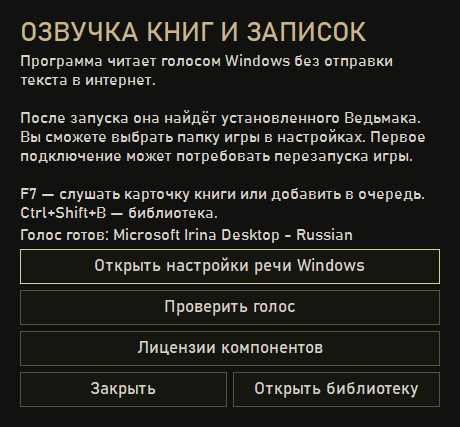
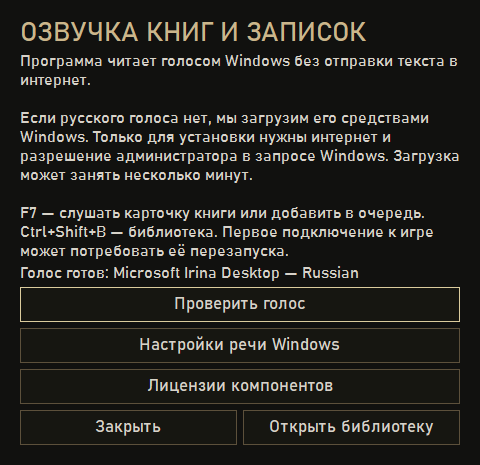
Ведьмак 3: название проекта и автоматическая установка русского голоса (0.1.1)

Changed region(s): [[0.0304, 0.4262, 0.9739, 0.9742], [0.0304, 0.2436, 0.9739, 0.3958], [0.0304, 0.0304, 0.9739, 0.2131]]

diff --git a/README.md b/README.md
@@ -1,12 +1,14 @@
 <div align="center">
 
-# Озвучка записок и книг — Ведьмак 3
+# Ведьмак 3 — озвучка текста, книг и записок
 
-**Слушайте найденные письма, книги и дневники, продолжая играть.**
+**Озвучка текста в The Witcher 3: слушайте найденные письма, книги и дневники, продолжая играть.**
+
+Чтение вслух на русском для «Ведьмака 3» — с очередью, мини-плеером и субтитрами.
 
 Офлайн-озвучка на русском · Windows 10/11 x64 · очередь записей · отдельные субтитры
 
-[**Скачать установщик Windows (v0.1.0)**](https://github.com/Protozhe/witcher3-book-voice/releases/download/v0.1.0/WitcherBookVoice-0.1.0-Windows-x64-Setup.exe) · [Все файлы релиза и SHA256](https://github.com/Protozhe/witcher3-book-voice/releases/tag/v0.1.0)
+[**Скачать установщик Windows (v0.1.1)**](https://github.com/Protozhe/witcher3-book-voice/releases/download/v0.1.1/WitcherBookVoice-0.1.1-Windows-x64-Setup.exe) · [Все файлы релиза и SHA256](https://github.com/Protozhe/witcher3-book-voice/releases/tag/v0.1.1)
 
 [Возможности](#возможности) · [Совместимость](docs/COMPATIBILITY.md) · [Установка](docs/INSTALL.md) · [Сообщить об ошибке](https://github.com/Protozhe/witcher3-book-voice/issues/new/choose)
 
@@ -14,7 +16,7 @@
 
 ![Библиотека найденных книг](docs/images/library.png)
 
-> **Первый предварительный релиз — v0.1.0.** Установщик включает приложение, Python и библиотеки. Отдельно устанавливать Python не нужно. Нужен русский голос Windows: первый запуск проверит его и поможет открыть настройки речи. Исходники приложения остаются закрытыми. Установщик пока не подписан сертификатом; сверяйте SHA256 и скачивайте файлы только из Releases этого репозитория.
+> **Предварительный релиз — v0.1.1.** Установщик включает приложение, Python и библиотеки. Отдельно устанавливать Python не нужно. Русский голос Windows проверяется автоматически. Если его нет, мастер начнёт загрузку через Windows Update; нужны интернет и подтверждение запроса администратора. Исходники приложения остаются закрытыми. Установщик пока не подписан сертификатом; сверяйте SHA256 и скачивайте файлы только из Releases этого репозитория.
 
 ## Возможности
 
@@ -65,7 +67,7 @@
 
 ## Офлайн и нагрузка
 
-Публичная версия использует установленный русский голос Windows (Microsoft SAPI). Модель Ирины/Piper и ресурсы игры в установщик не включены. Голос работает локально и не требует GPU. Если русского голосового пакета нет, его нужно один раз загрузить через настройки Windows; затем чтение работает офлайн. Готовые аудиофрагменты используются повторно.
+Публичная версия использует русский голос Windows (Microsoft SAPI или OneCore). Модель Ирины/Piper и ресурсы игры в установщик не включены. Голос работает локально и не требует GPU. Если русского голосового пакета нет, мастер один раз установит его через Windows Update. Подтвердите запрос администратора; после установки чтение работает офлайн. При отмене или ошибке загрузки можно повторить установку в мастере. Политики Windows Update могут блокировать загрузку; иногда требуется перезагрузка. Готовые аудиофрагменты используются повторно.
 
 Объём полной подготовки зависит от скорости и каталога; ориентир — около 2 ГБ. Подготовку пользователь запускает сам. Точность ударений и синхронизация субтитров пока не идеальны: субтитры рассчитываются приблизительно внутри аудиофрагмента.
 
@@ -78,7 +80,7 @@
 - [x] Очередь, мини-плеер, перемотка и субтитры.
 - [x] Подготовка аудио и сохранение истории локально.
 - [x] Автоматическое обнаружение установленной игры на Windows.
-- [x] Первый Windows-установщик с голосом Windows, лицензиями и исходниками сторонних LGPL-библиотек.
+- [x] Windows-установщик с автоматической установкой русского голоса Windows, лицензиями и исходниками сторонних LGPL-библиотек.
 - [ ] Отдельный Linux-бэкенд горячих клавиш, процессов и аудио.
 - [ ] Проверки на Steam Deck, X11, Wayland и нескольких Proton-префиксах.
 - [ ] Улучшение произношения и точности субтитров.

diff --git a/docs/INSTALL.md b/docs/INSTALL.md
@@ -1,8 +1,8 @@
 # Установка и первый запуск
 
-Скачайте [Windows x64 Setup](https://github.com/Protozhe/witcher3-book-voice/releases/download/v0.1.0/WitcherBookVoice-0.1.0-Windows-x64-Setup.exe), запустите и завершите установку. Установка выполняется для текущего пользователя. Python устанавливать отдельно не нужно. Windows 10 версии 1809 или новее / Windows 11 x64; для Windows N нужен Media Feature Pack. Сборка не подписана: не отключайте защиту Windows; проверьте источник и контрольную сумму, если появилось предупреждение.
+Скачайте [Windows x64 Setup](https://github.com/Protozhe/witcher3-book-voice/releases/download/v0.1.1/WitcherBookVoice-0.1.1-Windows-x64-Setup.exe), запустите и завершите установку. Установка выполняется для текущего пользователя. Python устанавливать отдельно не нужно. Windows 10 версии 1809 или новее / Windows 11 x64; для Windows N нужен Media Feature Pack. Сборка не подписана: не отключайте защиту Windows; проверьте источник и контрольную сумму, если появилось предупреждение.
 
-1. Откройте ярлык «Озвучка книг — Ведьмак 3». Мастер проверит русский голос. Если он отсутствует, откройте настройки речи по кнопке, установите русский голосовой пакет, перезапустите программу и повторите проверку. Для загрузки пакета Windows может потребоваться интернет и разрешение администратора.
+1. Установщик автоматически проверит русский голос. Если он отсутствует, мастер начнёт установку через Windows Update: подтвердите запрос администратора и дождитесь завершения. Если голос уже установлен, загрузки и запроса прав не будет. После отмены или сбоя можно повторить установку в мастере первого запуска. Windows может потребовать перезагрузку. При тихой установке проверка выполняется при первом обычном запуске приложения.
 2. Запустите W3Reader.exe. В настройках выберите папку игры, если она не найдена автоматически.
 3. Дождитесь построения локального каталога. При первом подключении может потребоваться перезапуск игры для загрузки мода.
 4. Загрузите сохранение. Если библиотека пуста, выполните быстрое сохранение F5 и обновите список.

diff --git a/THIRD_PARTY_NOTICES.md b/THIRD_PARTY_NOTICES.md
@@ -1,10 +1,10 @@
-# Сторонние компоненты публичной версии 0.1.0
+# Сторонние компоненты публичной версии 0.1.1
 
-Приложение имеет закрытый исходный код. Публичный установщик не содержит игровых ресурсов, моделей Piper/Ирины, sherpa-onnx или eSpeak NG. Речь создаётся установленным голосом Windows через Microsoft SAPI. Лицензию Windows предоставляет Microsoft.
+Приложение имеет закрытый исходный код. Публичный установщик не содержит игровых ресурсов, моделей Piper/Ирины, sherpa-onnx или eSpeak NG. Речь создаётся установленным голосом Windows через Microsoft SAPI / OneCore. Голос при необходимости устанавливается через Windows Update. Лицензию Windows предоставляет Microsoft.
 
 В установщике есть Python (PSF), Qt/PySide6/Shiboken 6.11.2 (применимые модули LGPL-3.0), FFmpeg 7.1.5 (LGPL-2.1-or-later, сборка без enable-gpl/enable-nonfree), Pillow и его кодеки, LZ4, pycaw, comtypes, psutil, OpenSSL, Microsoft Runtime. Полные тексты лицензий, уведомления и версии входят в папку licenses установленной программы. Открыть сведения можно в мастере первого запуска или настройках приложения.
 
-В [релизе](https://github.com/Protozhe/witcher3-book-voice/releases/tag/v0.1.0) рядом с установщиком опубликован WitcherBookVoice-0.1.0-ThirdPartySources.zip: соответствующие неизменённые исходники QtBase, QtMultimedia, PySide/Shiboken, FFmpeg и zlib, контрольные суммы и инструкции. Это исходники сторонних компонентов, а не закрытого приложения.
+В [релизе](https://github.com/Protozhe/witcher3-book-voice/releases/tag/v0.1.1) рядом с установщиком опубликован WitcherBookVoice-0.1.1-ThirdPartySources.zip: соответствующие неизменённые исходники QtBase, QtMultimedia, PySide/Shiboken, FFmpeg и zlib, контрольные суммы и инструкции. Это исходники сторонних компонентов, а не закрытого приложения.
 
 Динамические DLL/PYD LGPL-библиотек можно заменять совместимыми модифицированными версиями; обратное проектирование для отладки таких изменений разрешено. Условия собственного приложения не ограничивают права по LGPL.
 

diff --git a/docs/COMPATIBILITY.md b/docs/COMPATIBILITY.md
@@ -1,12 +1,12 @@
 # Совместимость и критерии выпуска
 
-Текущая версия 0.1.0 предназначена для Windows 10 (1809+) / Windows 11 x64. Установка, обновление, удаление и чтение проверены на текущем Windows-компьютере; отдельная чистая виртуальная машина и все варианты Windows ещё не проверены.
+Текущая версия 0.1.1 предназначена для Windows 10 (1809+) / Windows 11 x64. Установка, обновление, удаление и чтение проверены на текущем Windows-компьютере; отдельная чистая виртуальная машина и все варианты Windows ещё не проверены.
 
 Код привязан к Windows: глобальные клавиши, определение активной игры, автозапуск и приглушение аудиосессии требуют отдельных реализаций на Linux.
 
 ## Что проверено
 
-- На локальном Windows-компьютере: 127 автоматических тестов и самопроверка собранной программы с реальным аудиоплеером.
+- На локальном Windows-компьютере: 137 автоматических тестов и самопроверка собранной программы с реальным аудиоплеером.
 - Интерфейс при ширине 300, 340 и 480 пикселей и масштабе Windows 150%.
 - Формирование мода по разным исходным скриптам Classic/4.x. Это не заменяет компиляцию и прохождение игры на каждой версии.
 
@@ -21,3 +21,5 @@
 - Запуск на слабом CPU, Steam Deck и нескольких поддерживаемых дистрибутивах.
 
 Пока эти проверки не пройдены, Linux не обозначается как поддерживаемая платформа. Универсальная совместимость со всеми ОС, модами и версиями игры не обещается.
+
+Автоматическая установка голоса: проверены сценарии уже установленного голоса, успешной установки, отмены UAC, сбоя Windows Update и запроса перезагрузки (отсутствующий голос и ответы установки моделировались). Реальный синтез SAPI и OneCore проверен. На чистой Windows без русского языка полный цикл загрузки ещё не проверен.

diff --git a/docs/TROUBLESHOOTING.md b/docs/TROUBLESHOOTING.md
@@ -27,3 +27,7 @@
 ## Звук и произношение
 
 На паузе прежняя громкость игры должна возвращаться. Сообщите, если она не вернулась. Голос и приблизительные субтитры могут ошибаться; качество ударений не гарантируется.
+
+## Русский голос не установился
+
+Откройте приложение и нажмите «Установить русский голос» в мастере. Для загрузки компонентов Language.Basic и Language.TextToSpeech нужен доступ к Windows Update и подтверждение администратора. Отмена запроса не вызывает бесконечных повторных запросов: повтор запускается кнопкой. При сообщении о перезагрузке сохраните игру и перезагрузите компьютер. При ограничениях организации обратитесь к её администратору. Запасной путь — «Настройки речи Windows» в мастере. Программа не меняет язык интерфейса Windows и не отключает политики обновлений.
